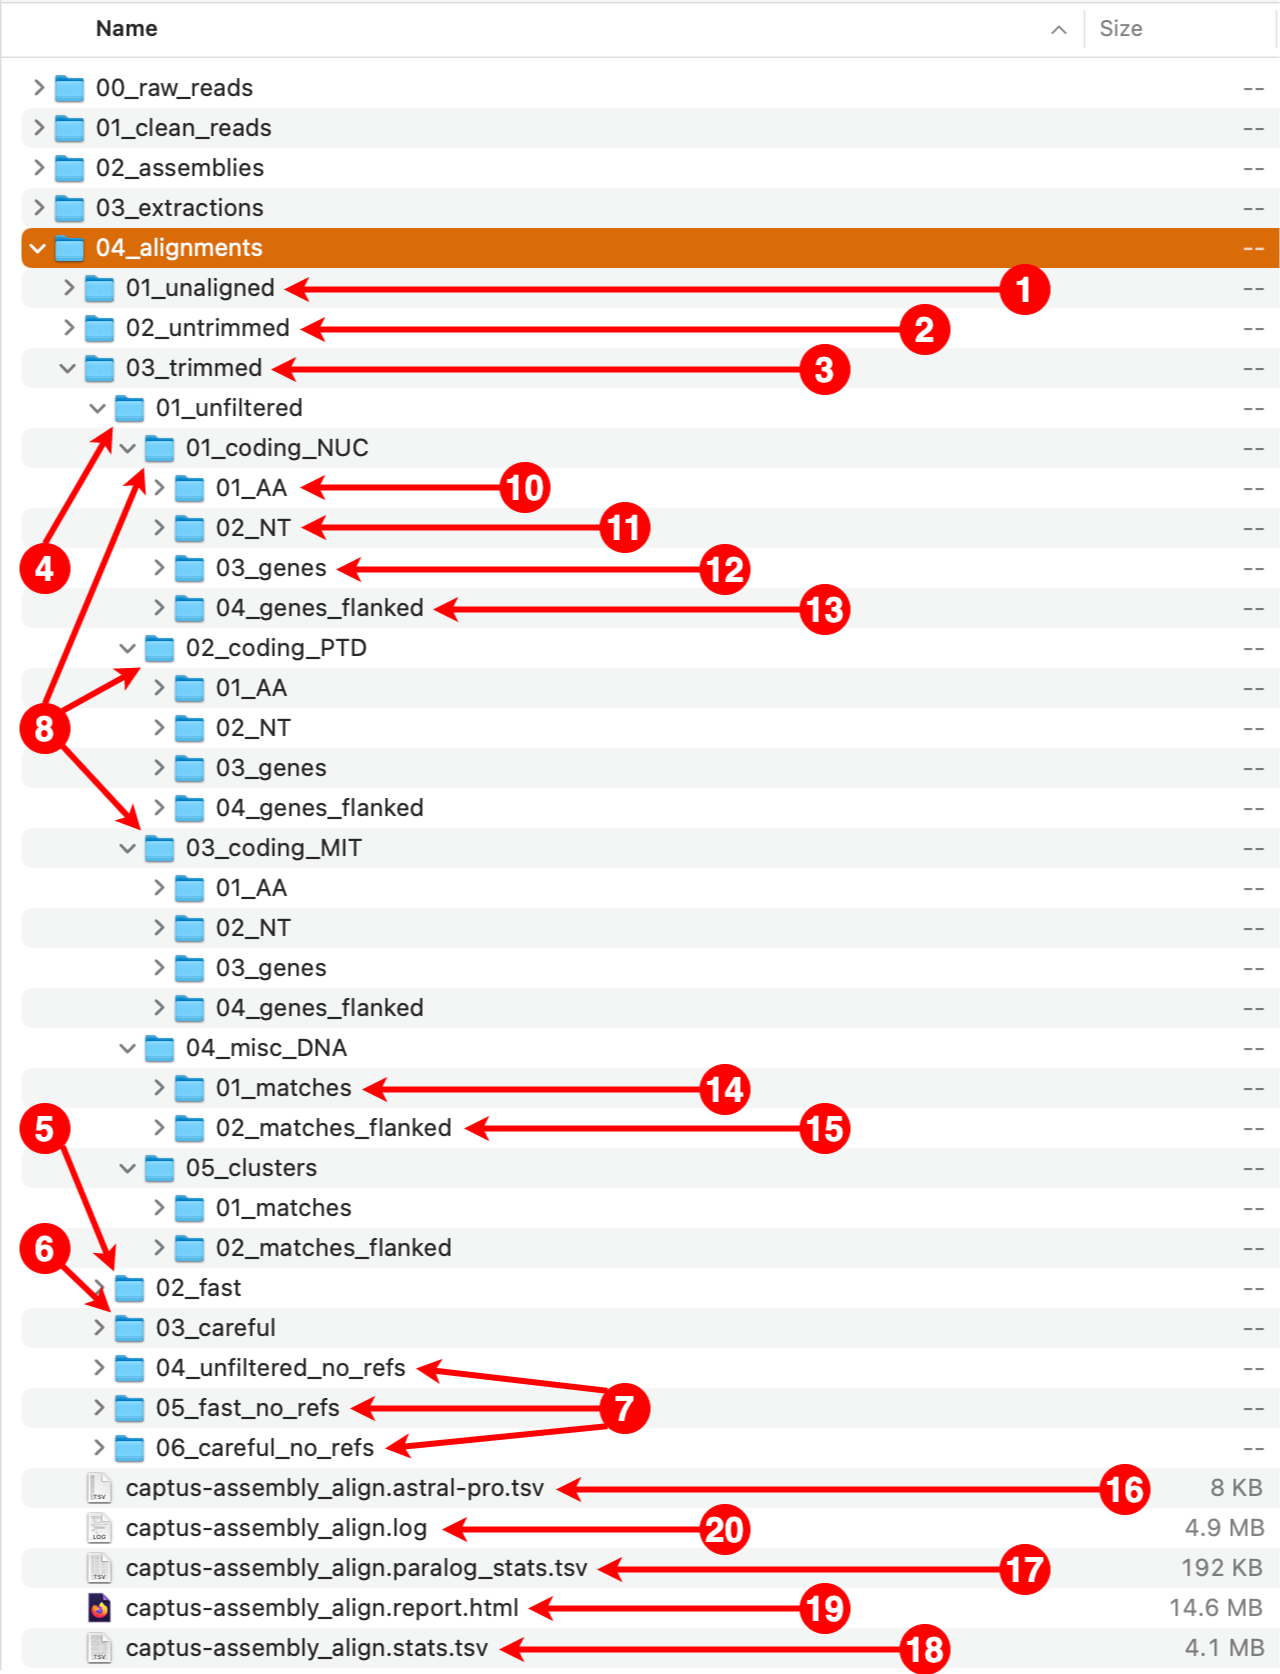
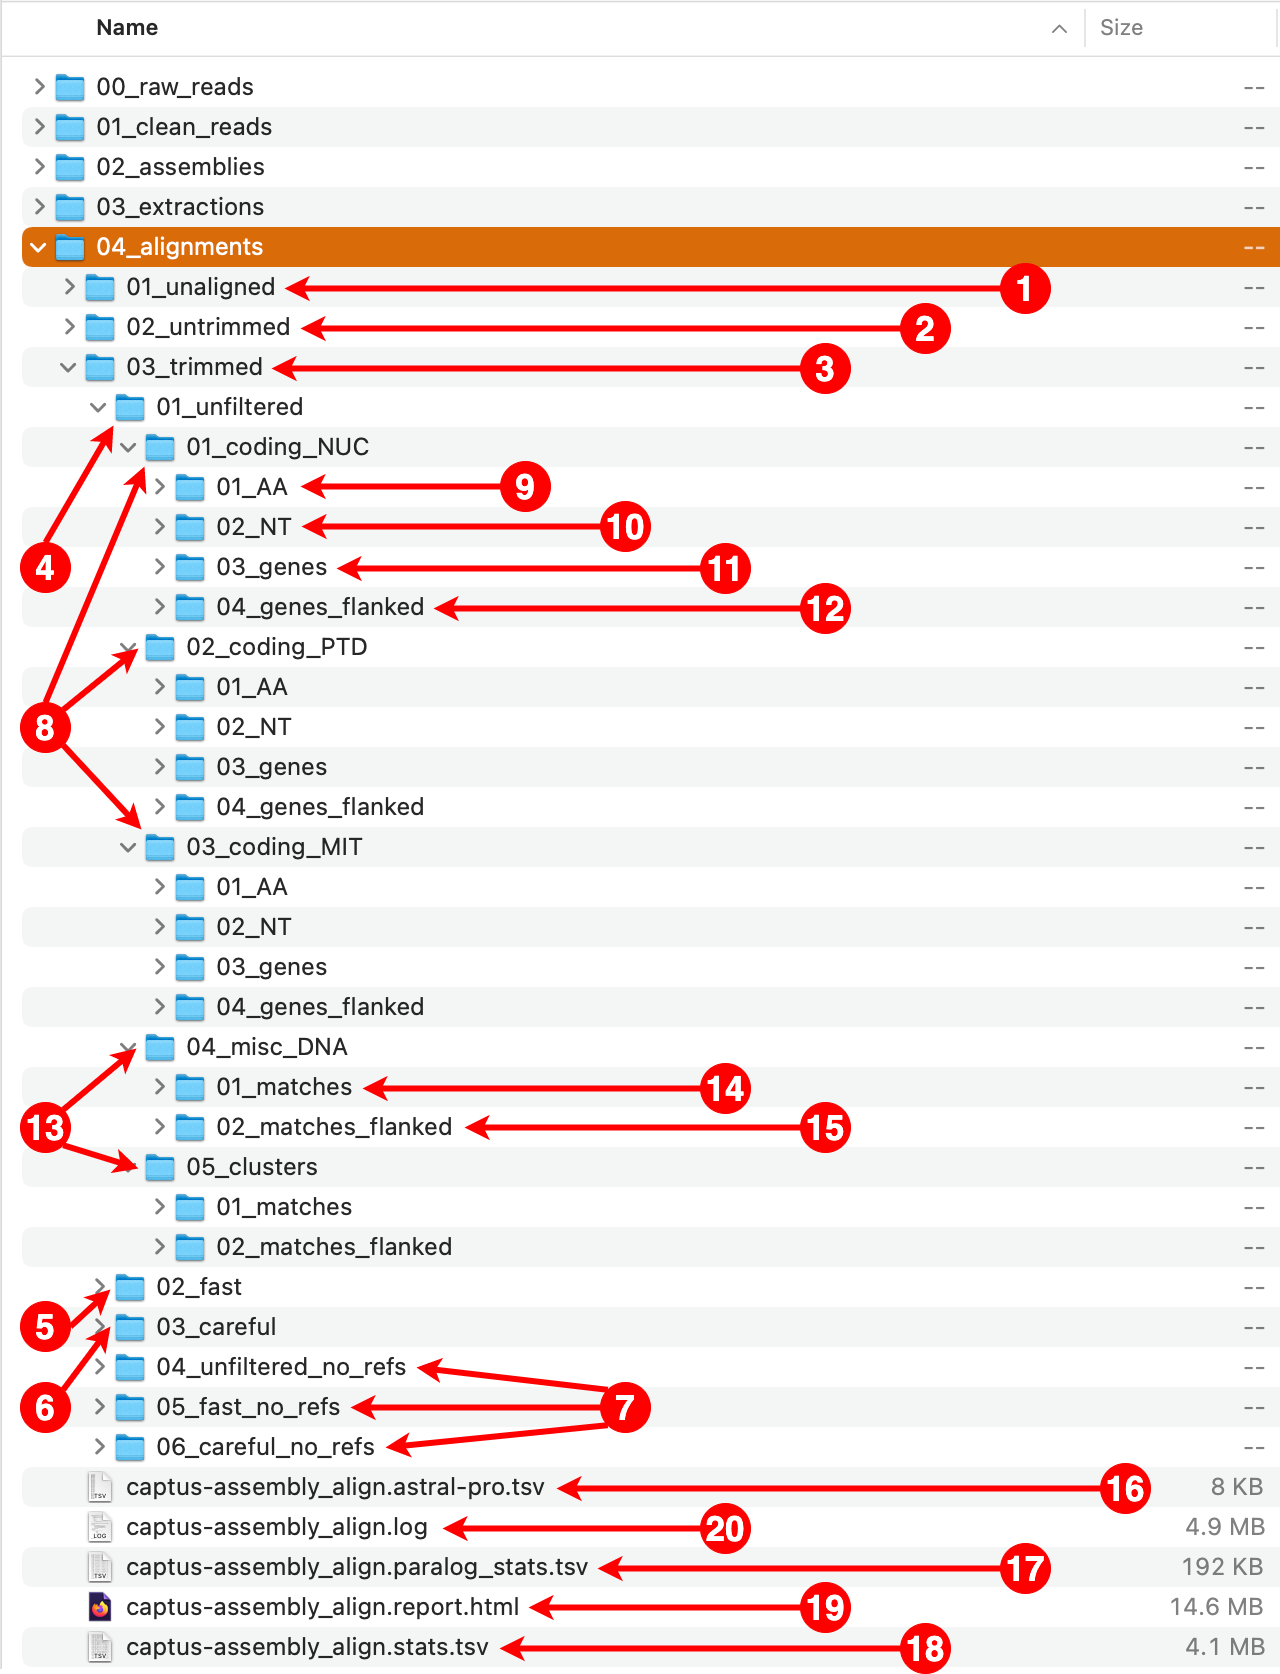
Updating to v0.8.3
-Changing the version numbering style, instead of the corresponding 0.0.83 we will use 0.8.3
-Changed several protein extraction defaults, should produce fewer irrelevant secondary hits
-Docs almost finished

Former-commit-id: 9efe15cf7d57429a9be47d5f7502fa42a28c3764

diff --git a/captus/bioformats.py b/captus/bioformats.py
@@ -1640,7 +1640,7 @@ def scipio_yaml_to_dict(
             else:
                 return None
 
-    def translate_between_exons(mod: dict, i: int, gencode: dict, predict: bool):
+    def translate_between_exons(mod: dict, i: int, gencode: dict, predict: bool, min_identity: float):
         if (len(mod["mat_nt"][i]) > 2
             and mod["mat_types"][i-1] == mod["mat_types"][i+1] == "exon"
             and mod["hit_ids"][i-1] == mod["hit_ids"][i] == mod["hit_ids"][i+1]):
@@ -1669,12 +1669,14 @@ def scipio_yaml_to_dict(
                 prot_gap = ref_seq[0][max(mod["ref_ends"][i-1] - ref_seq[1], 0) :
                                       min(mod["ref_starts"][i+1] - ref_seq[1], len(ref_seq[0]))]
                 len_gap = len(prot_gap)
+                max_gap_size = mod["ref_size"] * set_a.SCIPIO_MAX_GAP_AS_REF_PROP
+                min_gap_identity = (min_identity / 100) - set_a.SCIPIO_MAX_GAP_DELTA_IDENTITY
+
                 if len_gap > 0:
                     len_chunk = len(current_chunk) // 3
                     overlap = min(len_gap, len_chunk) / max(len_gap, len_chunk)
                     # Don't align if 'current_chunk' is too long compared to the unmatched protein
-                    if (len_chunk / len_gap <= set_a.SCIPIO_MAX_GAP_DELTA
-                        and len_gap * len_chunk <= set_a.RECURSION_LIMIT):
+                    if len_chunk <= max_gap_size and len_gap * len_chunk <= set_a.RECURSION_LIMIT:
                         rfs  = {i: translate(current_chunk, gencode, frame=i, start_as_M=False)
                                 for i in [1,2,3]}
                         # Global alignment if they overlap at least 80%
@@ -1684,8 +1686,9 @@ def scipio_yaml_to_dict(
                         else:
                             alns = {i: align_prots(rfs[i], prot_gap, "sw") for i in rfs}
                         # Prioritize filling gaps without skipping leading or trailing bases
+
                         if (len(current_chunk) % 3 == 0 and not "*" in rfs[1]
-                            and alns[1]["match_rate"] >= set_a.SCIPIO_MIN_GAP_MATCH_RATE):
+                            and alns[1]["match_rate"] >= min_gap_identity):
                             lead, trail = 0, 0
                             seq_chunks = ["", mod["mat_nt"][i].upper()]
                             mod["mismatches"] += [pos+mod["ref_ends"][i-1]
@@ -1696,7 +1699,7 @@ def scipio_yaml_to_dict(
                                 alns[rf]["match_rate"] *= (set_a.SCIPIO_STOP_PENALTY
                                                            ** alns[rf]["s1_aln"].count("*"))
                             rf, aln = max(alns.items(), key=(lambda x: x[1]["match_rate"]))
-                            if (aln["match_rate"] >= set_a.SCIPIO_MIN_GAP_MATCH_RATE
+                            if (aln["match_rate"] >= min_gap_identity
                                 and not "*" in aln["s1_aln"]):
                                 lead  = rf - 1
                                 trail = (len(current_chunk) - lead) % 3
@@ -1782,7 +1785,7 @@ def scipio_yaml_to_dict(
 
         return mod
 
-    def check_gaps_and_concat_seqs(mod: dict, gencode: dict, predict: bool):
+    def check_gaps_and_concat_seqs(mod: dict, gencode: dict, predict: bool, min_identity: float):
         # If the model doesn't end with 'downstream' or 'exon' trim it until last piece is an 'exon'
         if mod["mat_types"][-1] not in ["exon", "downstream"]:
             for i in reversed(range(len(mod["mat_types"]))):
@@ -1811,7 +1814,7 @@ def scipio_yaml_to_dict(
                 mod["seq_nt"] += mod["mat_nt"][i].upper()
                 last_exon = i
             if mod["mat_types"][i] in ["gap", "intron?"]:
-                mod = translate_between_exons(mod, i, gencode, predict)
+                mod = translate_between_exons(mod, i, gencode, predict, min_identity)
             if mod["mat_types"][i] in ["intron", "separator"]:
                 mod["seq_flanked"] += mod["mat_nt"][i].lower()
                 mod["seq_gene"] += mod["mat_nt"][i].lower()
@@ -1846,7 +1849,8 @@ def scipio_yaml_to_dict(
         return coords
 
     def parse_model(
-            yaml_mod: dict, protein_name: str, marker_type: str, gencode: dict, predict: bool
+            yaml_mod: dict, protein_name: str, marker_type: str, gencode: dict, predict: bool,
+            min_identity: float
     ):
         """
         A gene model is composed by several sequence matchings (e.g. exons, introns, etc.) which can
@@ -2022,7 +2026,7 @@ def scipio_yaml_to_dict(
         mod = fix_model(mod, gencode)
         if not mod: return None
 
-        mod = check_gaps_and_concat_seqs(mod, gencode, predict)
+        mod = check_gaps_and_concat_seqs(mod, gencode, predict, min_identity)
         prot_len_predicted = sum(mod["hit_ends"][i] - mod["hit_starts"][i]
                                  for i in range(len(mod["mat_types"]))
                                  if "predicted" in mod["mat_notes"][i])

diff --git a/captus/captus_assembly.py b/captus/captus_assembly.py
@@ -696,7 +696,7 @@ class CaptusAssembly(object):
         scipio_nuc_group.add_argument(
             "--nuc_min_score",
             action="store",
-            default=0.12,
+            default=0.13,
             type=float,
             dest="nuc_min_score",
             help="Minimum Scipio score to retain hits to reference proteins."
@@ -704,7 +704,7 @@ class CaptusAssembly(object):
         scipio_nuc_group.add_argument(
             "--nuc_min_identity",
             action="store",
-            default=55,
+            default=65,
             type=float,
             dest="nuc_min_identity",
             help="Minimum identity percentage to retain hits to reference proteins"
@@ -744,7 +744,7 @@ class CaptusAssembly(object):
         scipio_ptd_group.add_argument(
             "--ptd_min_score",
             action="store",
-            default=0.2,
+            default=0.3,
             type=float,
             dest="ptd_min_score",
             help="Minimum Scipio score to retain hits to reference proteins"
@@ -752,7 +752,7 @@ class CaptusAssembly(object):
         scipio_ptd_group.add_argument(
             "--ptd_min_identity",
             action="store",
-            default=65,
+            default=75,
             type=float,
             dest="ptd_min_identity",
             help="Minimum identity percentage to retain hits to reference proteins"
@@ -792,7 +792,7 @@ class CaptusAssembly(object):
         scipio_mit_group.add_argument(
             "--mit_min_score",
             action="store",
-            default=0.2,
+            default=0.3,
             type=float,
             dest="mit_min_score",
             help="Minimum Scipio score to retain hits to reference proteins"
@@ -800,7 +800,7 @@ class CaptusAssembly(object):
         scipio_mit_group.add_argument(
             "--mit_min_identity",
             action="store",
-            default=65,
+            default=75,
             type=float,
             dest="mit_min_identity",
             help="Minimum identity percentage to retain hits to reference proteins"
@@ -1078,7 +1078,7 @@ class CaptusAssembly(object):
         input_group.add_argument(
             "--max_paralogs",
              action="store",
-             default=4,
+             default=5,
              type=int,
              dest="max_paralogs",
              help="Maximum number of secondary hits (copies) per sample to import from the"

diff --git a/captus/settings_assembly.py b/captus/settings_assembly.py
@@ -181,12 +181,14 @@ FILL_GAP_WITH_X = False
 # Minimum stretch of missing aminoacids in recovered protein to be filled by "X"
 SCIPIO_MIN_GAP_LEN_TO_X = 5
 
-# Minimum match rate between segment flagged as 'gap' by Scipio but that can be cleanly translated
-# and incorporated into the recovered coding sequence
-SCIPIO_MIN_GAP_MATCH_RATE = 0.1
+# Maximum gap size as proportion of reference length. For example, 0.5 means that only gaps that are
+# at most as long as half the length of the reference will be translated and aligned
+SCIPIO_MAX_GAP_AS_REF_PROP = 0.5
 
-# Maximum length of translated gap / length of unmatched aminoacids in reference protein
-SCIPIO_MAX_GAP_DELTA = 10
+# Use a more relaxed identity between the translated gap and the unmatched segment in the reference
+# by subtracting this number from the 'min_identity' chosen for extraction.
+# minimum gap identity = min identity - SCIPIO_MAX_GAP_DELTA_IDENTITY
+SCIPIO_MAX_GAP_DELTA_IDENTITY = 0.3
 
 # When aligning the translations from the three reading frames to a protein segment, penalize the
 # match rate by this number as many times as stop codons are found in the translation corresponding
@@ -348,7 +350,7 @@ SCIPIO_GENOME_BASIC_SETTINGS = {
     # Change here the initial settings for plastidial genes:
     "PTD": [
         "--region_size=0",
-        "--blat_params=-maxIntron=2000",
+        "--blat_params=-maxIntron=1300",
         "--max_assemble_size=9000",
     ],
     # Change here the initial settings for mitochondrial genes:
@@ -372,9 +374,9 @@ SCIPIO_GENOME_EXTRA_SETTINGS = {
     # Change here the final settings for plastidial genes:
     "PTD": [
         "--region_size=0",
-        "--blat_params=-oneOff=1 -maxIntron=2000",
+        "--blat_params=-oneOff=1 -maxIntron=1300",
         "--blat_tilesize=6",
-        "--exhaust_align_size=2000",
+        "--exhaust_align_size=1300",
         "--max_assemble_size=9000",
         "--min_intron_len=500",
         "--gap_to_close=120",

diff --git a/docs/content/assembly/align/output.md b/docs/content/assembly/align/output.md
@@ -14,6 +14,68 @@ After the run is finished we should see a new directory called `04_alignments` w
 
 ![Alignments](/images/alignments.png?width=640&classes=shadow)
 
+### 1. **`01_unaligned`**
+This directory contains the unaligned FASTA files corresponding to each marker that were gathered from the extractions directory. The files are organized in subdirectories, first by [marker type]({{< relref "assembly/align/options#-m---markers" >}}) and then by [format]({{< relref "assembly/align/options#-f---formats" >}}).
+___
+### 2. **`02_untrimmed`**
+This directory contains the aligned FASTA files corresponding to each file in the `01_unaligned` directory. The files are organized in subdirectories, first by filtering strategy, then by [marker type]({{< relref "assembly/align/options#-m---markers" >}}), and finally by [format]({{< relref "assembly/align/options#-f---formats" >}}). The subdirectory structure is identical to the one inside the `03_trimmed` directory (see **4** to **15** below).
+![Untrimmed alignments](/images/alignment_untrimmed_stages.png?width=1200&classes=shadow)
+___
+### 3. **`03_trimmed`**
+All the files present in the `02_untrimmed` directory are trimmed using `ClipKIT` which removes columns that are mostly empty (see options [**--clipkit_algorithm**]({{< relref "assembly/align/options#--clipkit_algorithm" >}}) and [**--clipkit_gaps**]({{< relref "assembly/align/options#--clipkit_gaps" >}})). The files are organized in subdirectories, first by filtering strategy, then by [marker type]({{< relref "assembly/align/options#-m---markers" >}}), and finally by [format]({{< relref "assembly/align/options#-f---formats" >}}). The subdirectory structure is identical to the one inside the `02_untrimmed` directory (see **4** to **15** below).
+![Trimmed alignments](/images/alignment_trimmed_stages.png?width=1200&classes=shadow)
+___
+### 4. **`01_unfiltered`**
+This directory contains the alignments before performing any filtering. All the reference sequences selected by at least a sample will be present as well as all the paralogs per sample. The files are organized in subdirectories, first by [marker type]({{< relref "assembly/align/options#-m---markers" >}}) and then by [format]({{< relref "assembly/align/options#-f---formats" >}}).
+___
+### 5. **`02_fast`**
+This directory contains the alignments where paralogs have been filtered by the `fast` method, which consists in simply keeping the best hit per sample (hit ranked as `00`). All the reference sequences selected by at least a sample will still be present. The files are organized in subdirectories, first by [marker type]({{< relref "assembly/align/options#-m---markers" >}}) and then by [format]({{< relref "assembly/align/options#-f---formats" >}}).
+___
+### 6. **`03_careful`**
+This directory contains the alignments where paralogs have been filtered by the `careful` method. All the reference sequences selected by at least a sample will still be present. The files are organized in subdirectories, first by [marker type]({{< relref "assembly/align/options#-m---markers" >}}) and then by [format]({{< relref "assembly/align/options#-f---formats" >}}).
+___
+### 7. **`04_unfiltered_no_refs`**, **`05_fast_no_refs`**, **`06_careful_no_refs`**
+A subdirectory.
+___
+### 8. **`01_coding_NUC`**, **`02_coding_PTD`**, **`03_coding_MIT`**
+A subdirectory.
+___
+### 9. **`01_AA`**
+A subdirectory.
+___
+### 10. **`02_NT`**
+A subdirectory.
+___
+### 11. **`03_genes`**
+A subdirectory.
+___
+### 12. **`04_genes_flanked`**
+A subdirectory.
+___
+### 13. **`04_misc_DNA`**, **`05_clusters`**
+A subdirectory.
+___
+### 14. **`01_matches`**
+A subdirectory.
+___
+### 15. **`02_matches_flanked`**
+A subdirectory.
+___
+### 16. **`captus-assembly_align.astral-pro.tsv`**
+A subdirectory.
+___
+### 17. **`captus-assembly_align.paralog_stats.tsv`**
+A subdirectory.
+___
+### 18. **`captus-assembly_align.stats.tsv`**
+A subdirectory.
+___
+### 19. **`captus-assembly_align.report.html`**
+A subdirectory.
+___
+### 20. **`captus-assembly_align.log`**
+A subdirectory.
+
 ___
 Created by [Edgardo M. Ortiz]({{< ref "../../credits/#edgardo-m-ortiz">}}) (06.08.2021)  
-Last modified by [Edgardo M. Ortiz]({{< ref "../../credits/#edgardo-m-ortiz">}}) (27.03.2022)
+Last modified by [Edgardo M. Ortiz]({{< ref "../../credits/#edgardo-m-ortiz">}}) (24.04.2022)

diff --git a/docs/content/tutorials/assembly/advanced.md b/docs/content/tutorials/assembly/advanced.md
@@ -75,7 +75,7 @@ you can easily integrate samples assembled with another tool.
 ```shell
 captus_assembly assemble -r 01_clean_reads_CAP -o 02_assemblies_CAP
 captus_assembly assemble -r 01_clean_reads_RNA -o 02_assemblies_RNA --preset RNA
-captus_assembly assemble -r 01_clean_reads_GSK -o 02_assemblies_GSK --preset WGS
+captus_assembly assemble -r 01_clean_reads_WGS -o 02_assemblies_WGS --preset WGS
 ```
 
 For descriptions of the other output files, see [here]({{< ref "assembly/assemble/output">}}).
